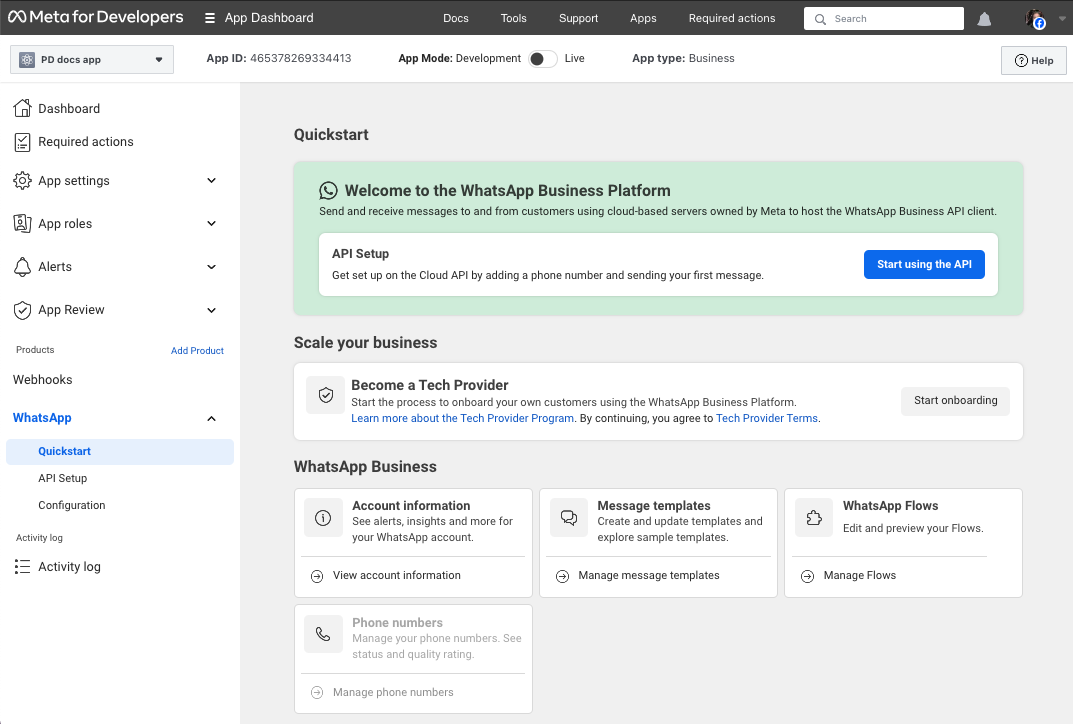
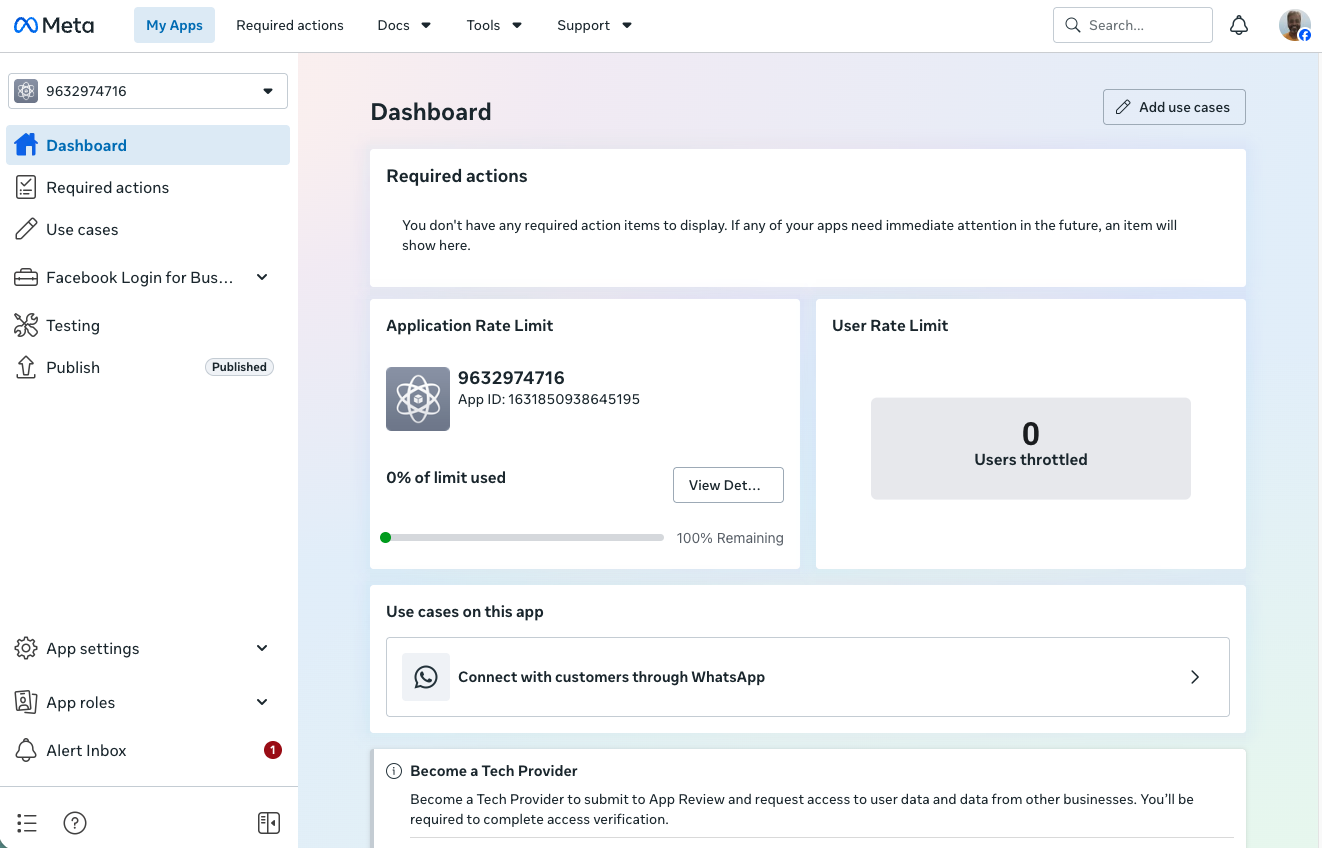
updated create a meta app

diff --git a/docs/channels/whatsapp/business-setup/create-a-meta-app.md b/docs/channels/whatsapp/business-setup/create-a-meta-app.md
@@ -28,11 +28,14 @@ Follow these simple steps to create your Meta app:
       :::
 
 6. **Publishing requirements**
-   - Click **Next**
+   - To publish the app, Meta requires a privacy policy URL.
+   - Click **Next**.
 
-You have completed the meta app creation. You can now go to the Dashboard, by clicking the button **Go to dashboard**. The Dashboard looks something like this (keeps changing)
+You have completed the Meta app creation. You can now go to the Dashboard by clicking the **Go to dashboard** button.
 
+After creating the app, you will be in the Dashboard and can see that the app is not published. Click **Publish** in the left-hand sidebar, then add a link to your privacy policy. After adding the privacy policy link, you will be able to publish the app.
 
+The Dashboard looks something like this (keeps changing).
 ![Meta App Image](/img/whatsapp/meta-app-success.png)
 
 
